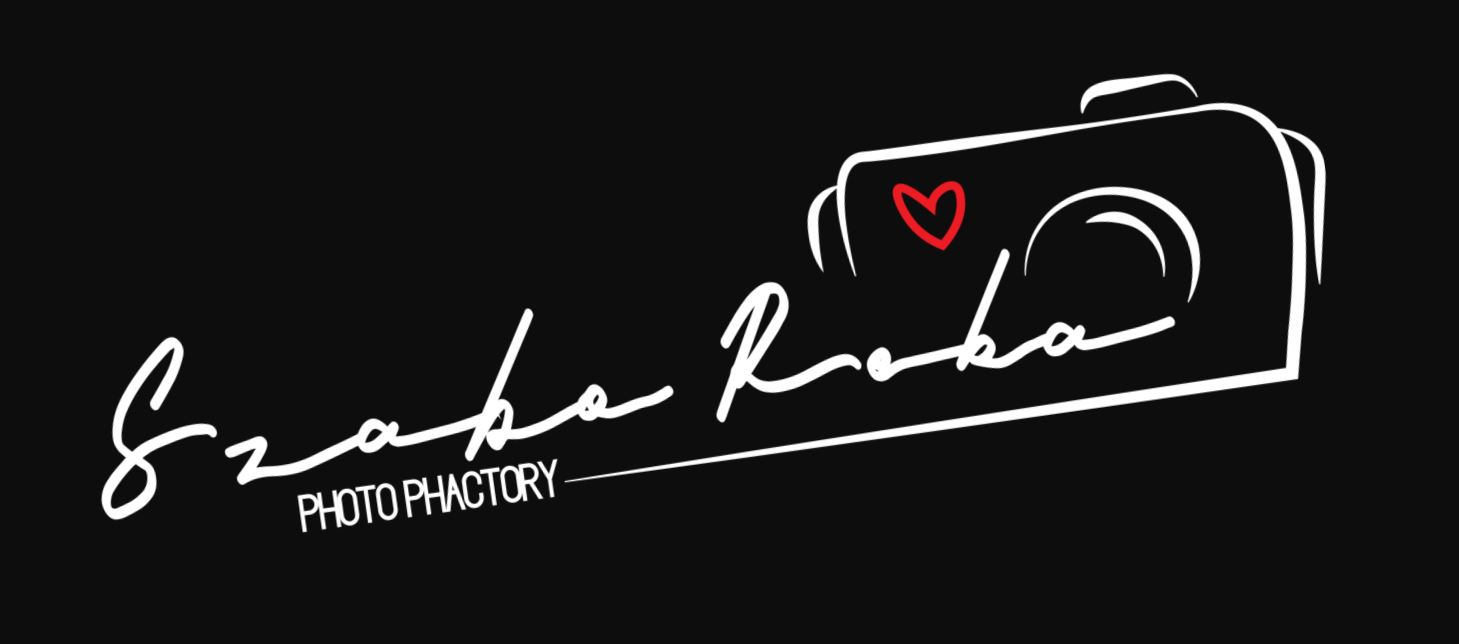
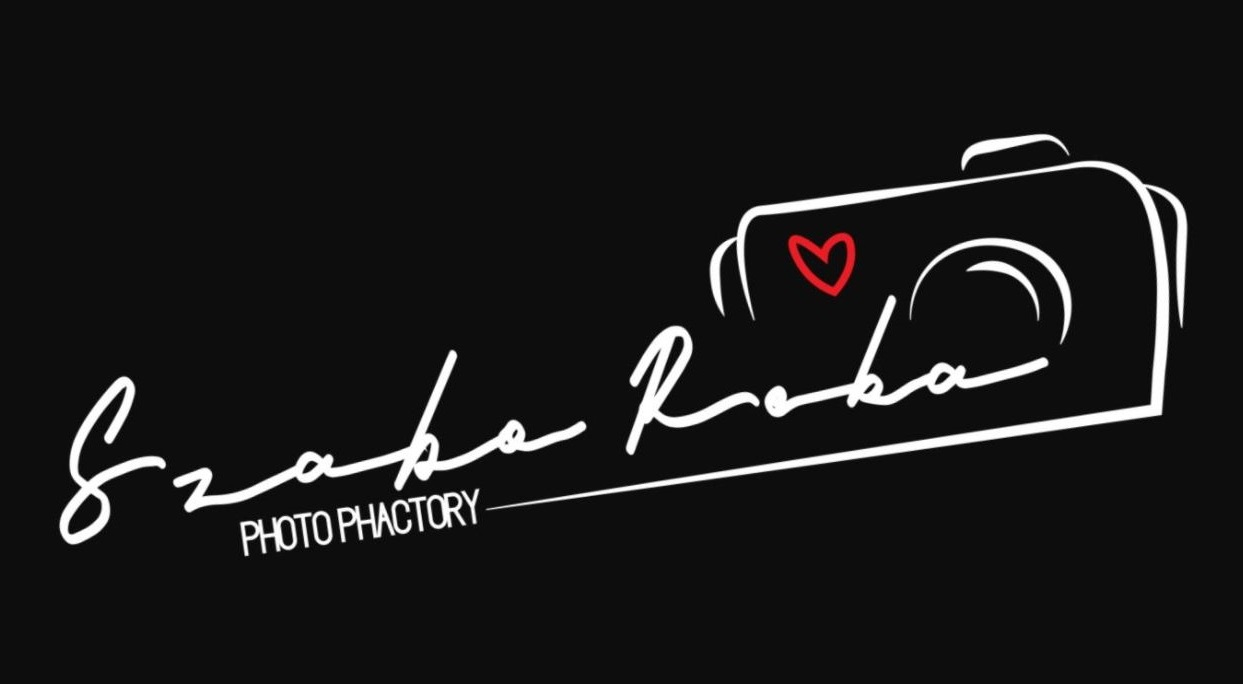
image resize

Changed region(s): [[0.0306, 0.0932, 0.9783, 0.8385]]

diff --git a/styles.css b/styles.css
@@ -74,7 +74,7 @@ body {
 .logo2 {
   width: 70vw;
   /* transform: rotate(-8deg); */
-  margin-top: 5vh;
+  margin-top: 0;
   margin-left: 15vw;
 }
 
@@ -159,7 +159,7 @@ footer {
     padding: 10px 0px;
   }
   .logo2 {
-    margin-top: 35vh;
+    margin-top: 15vh;
   }
 }
 
@@ -238,5 +238,8 @@ footer {
   .flag {
     font-size: 14px;
     margin-left: 3px;
+  }
+  .logo2 {
+    margin-top: 25vh;
   }
 }
